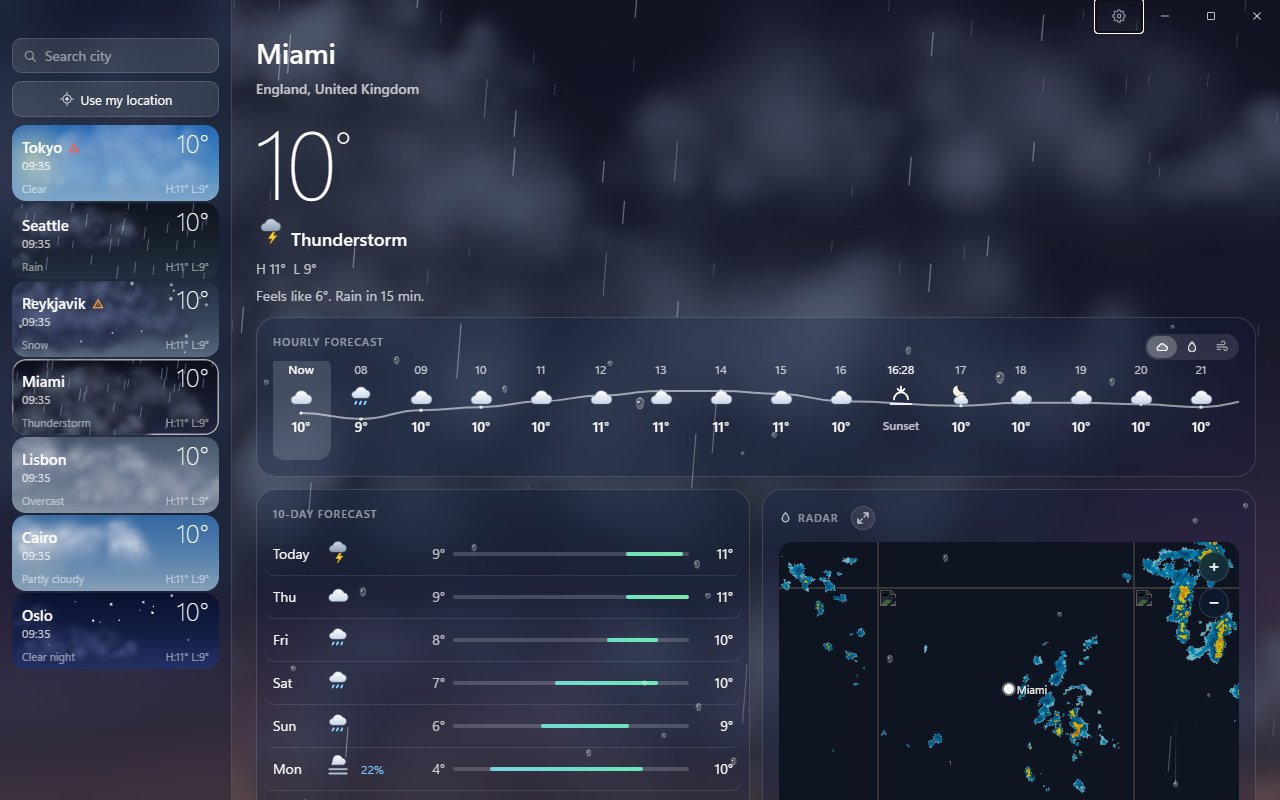
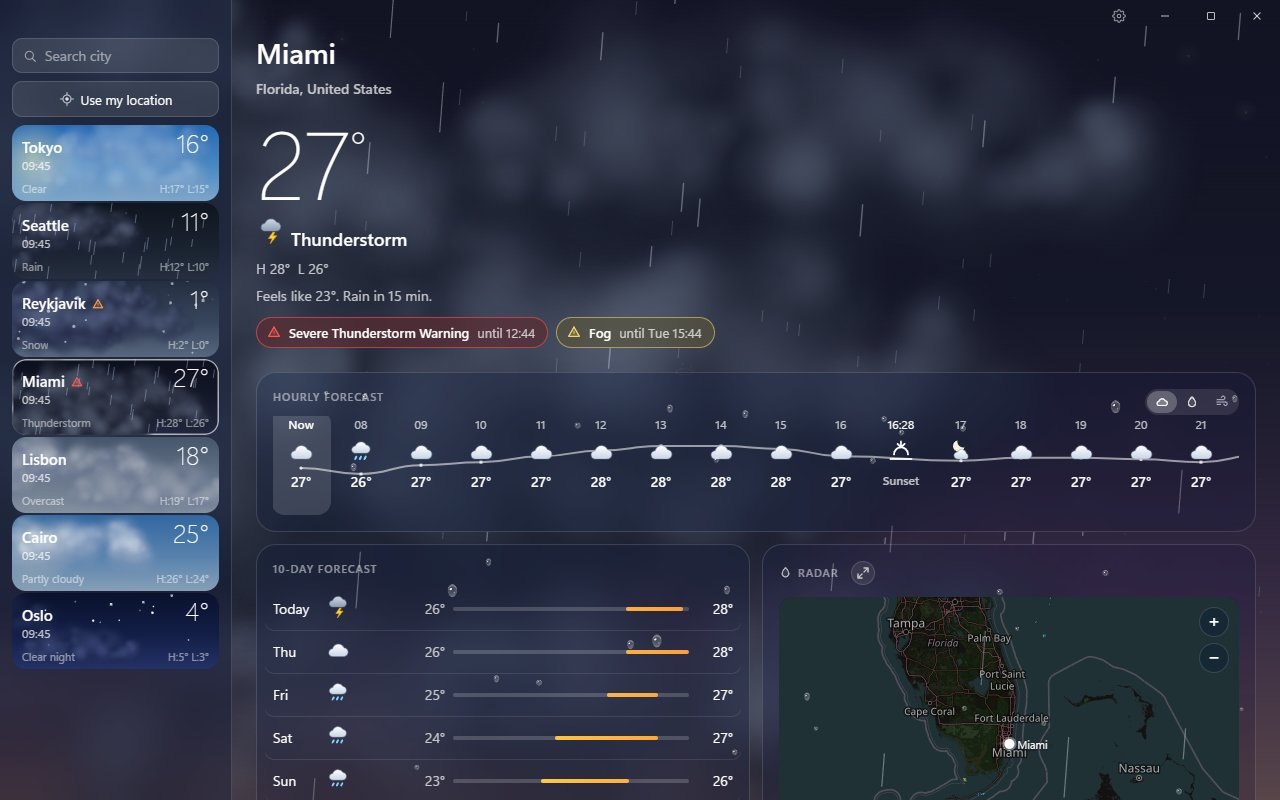
Fresh README screenshots (settings, alerts, real map tiles); screenshot script serves osmtile like the app (tasks 032-033)

diff --git a/README.md b/README.md
@@ -16,6 +16,10 @@ Built with Tauri 2 (WebView2), a Rust backend and a vanilla TypeScript + plain C
 |---|---|
 | ![Day popover](screenshots/popover-day.jpg) | ![Expanded radar](screenshots/radar-expanded.jpg) |
 
+| Settings | Weather alert |
+|---|---|
+| ![Settings](screenshots/settings.jpg) | ![Weather alert](screenshots/alerts.jpg) |
+
 All tiles:
 
 ![All tiles](screenshots/all-tiles.jpg)
